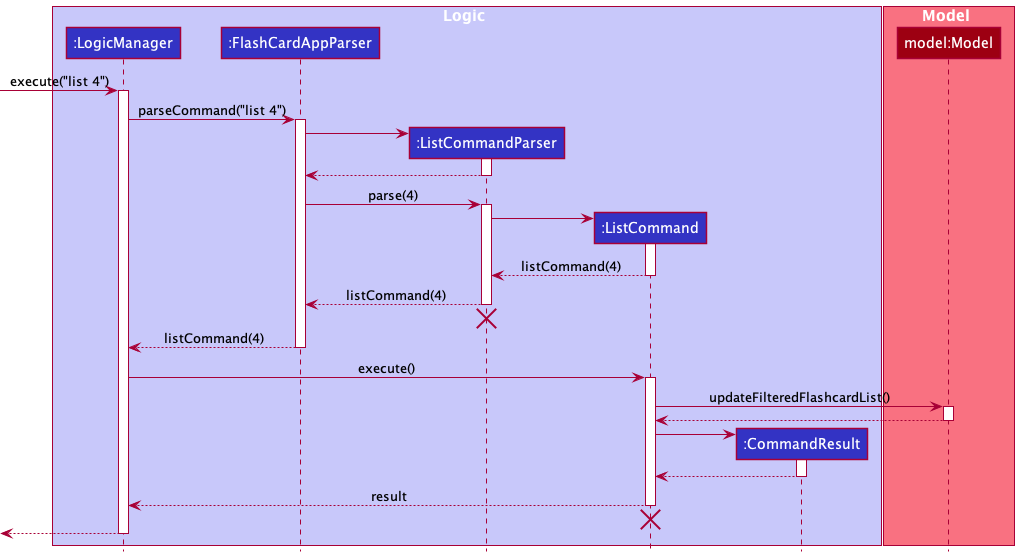
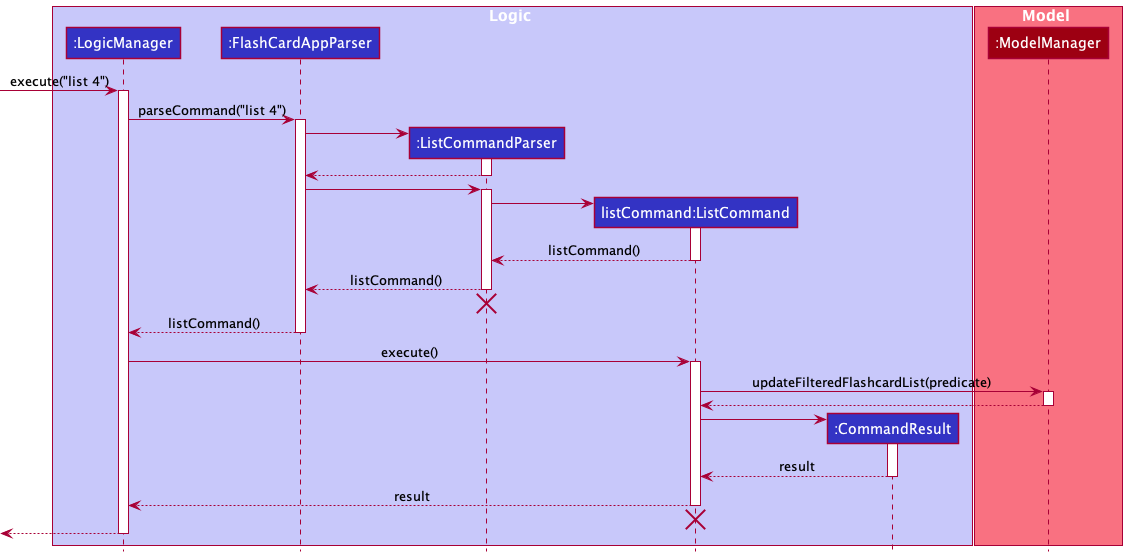
update list documentation

diff --git a/docs/DeveloperGuide.md b/docs/DeveloperGuide.md
@@ -252,7 +252,7 @@ The find feature is facilitated by `ModelManager`. It extends `Model` implements
 
 The find feature relies on the `FindCommandParser` and `PhraseContainsKeywordsPredicate`. Multiple keywords can be given for both english and foreign phrases. `FindCommandParser` uses `PhraseContainsKeywordsPredicate` to select flashcards that matches the keywords.
 
-The following activity diagram summarizes what happens when a user executes a new command:
+The following activity diagram summarizes what happens when a user executes a new find command:
 
 ![FindSequenceDiagram](images/FindSequenceDiagram.png)
 
@@ -267,6 +267,30 @@ The following activity diagram summarizes what happens when a user executes a ne
 * **Alternative 2:** Only allow full match
   * Pros: Only exact match will be output, user will only see flashcards that are exactly the keyword.
   * Cons: Too restrictive, will not output phrases that contains more than the keyword.
+
+### List feature
+
+#### Implementation
+
+The list feature is facilitated by `ModelManager`. It extends `Model` and implements `updateFilteredFlashcardList`which returns an unmodifiable view of the flashcards in the GUI.
+
+In order to generate a list of random flashcards, a random stream of `Index` is used to get the flashcards from the main list of flashcards.
+
+The sequence diagram below illustrates the execution of `ListCommand`.
+
+![ListSequenceDiagram](images/ListSequenceDiagram.png)
+
+#### Design considerations:
+
+**Aspect: Generating list of flashcards:**
+
+* **Alternative 1 (current choice):** Randomise the list of flashcards
+    * Pros: Users are able to use flashcards more effectively.
+    * Cons: Harder to implement and more difficult to test (due to random stream of `Index`).
+
+* **Alternative 2:** Output list up to `n`
+    * Pros: Easy to implement.
+    * Cons: Does not add value to the user's learning experience.
 
 
     
